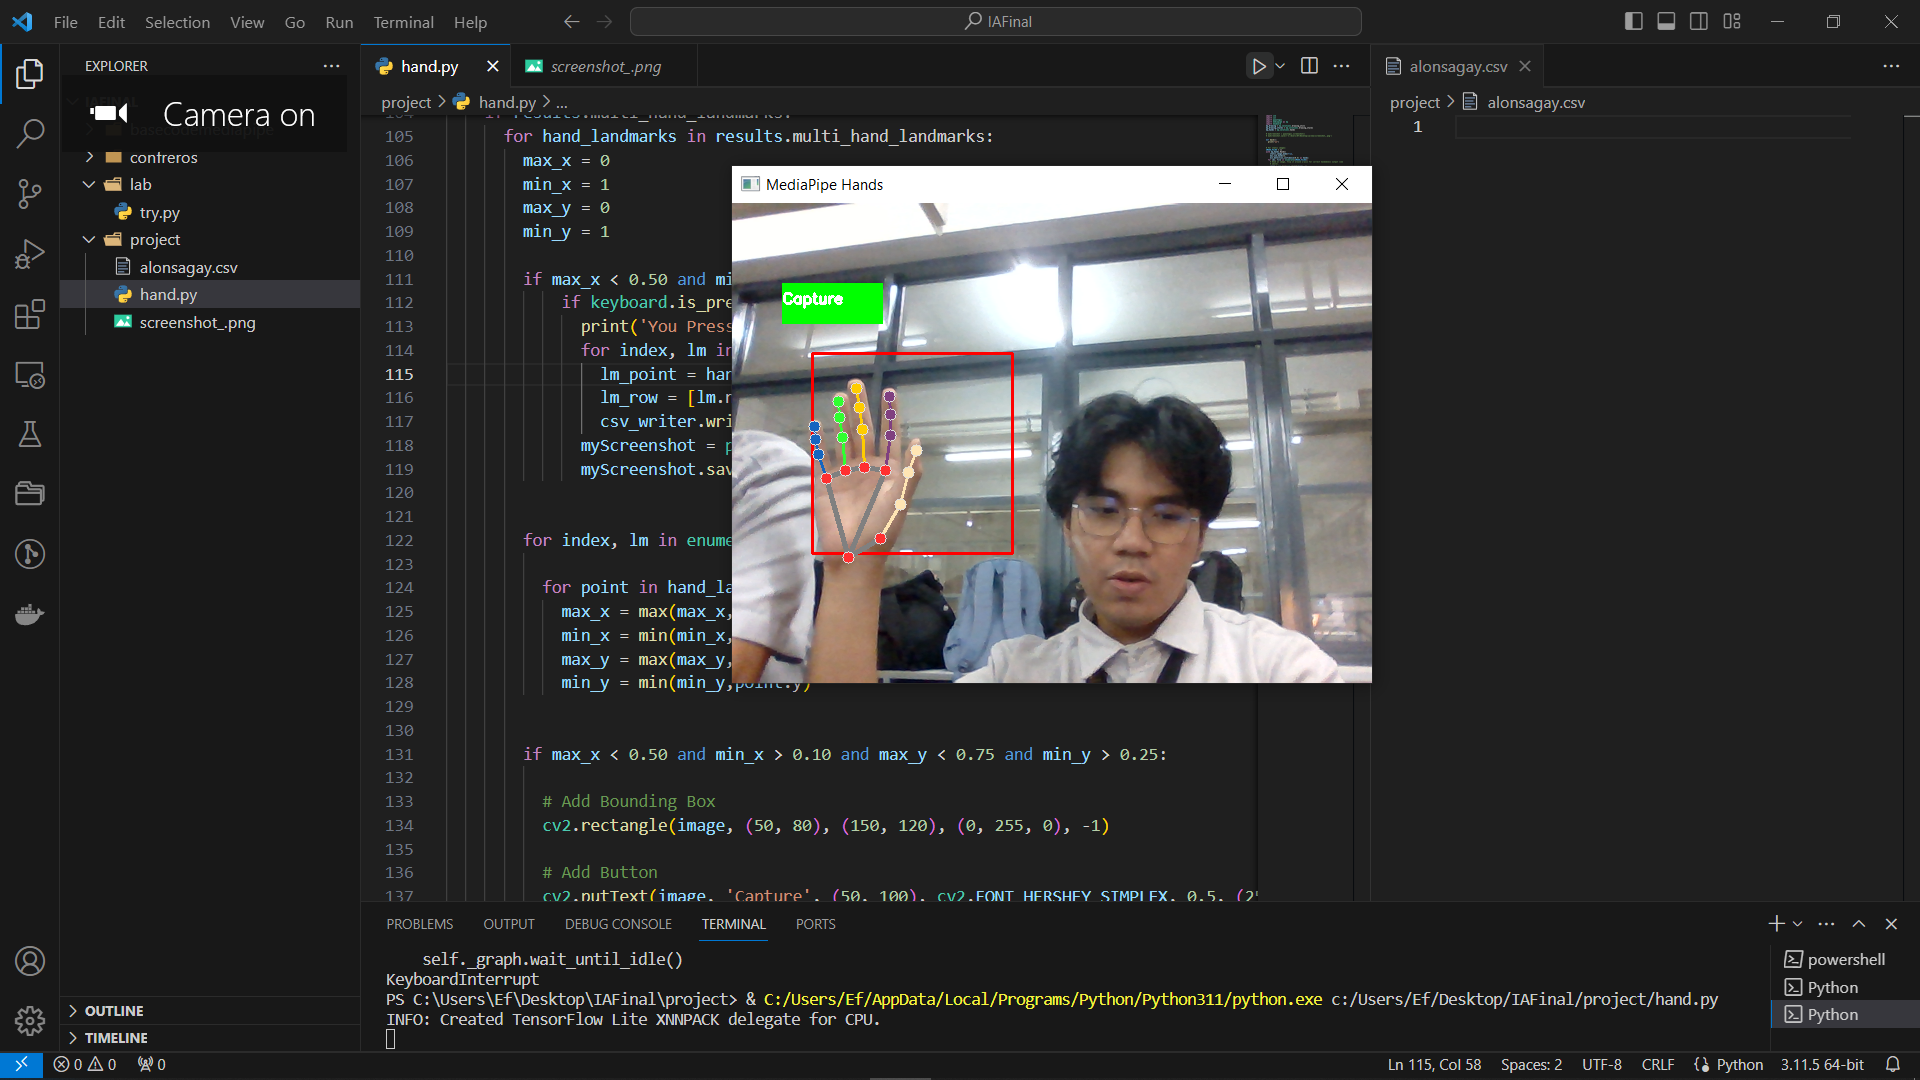
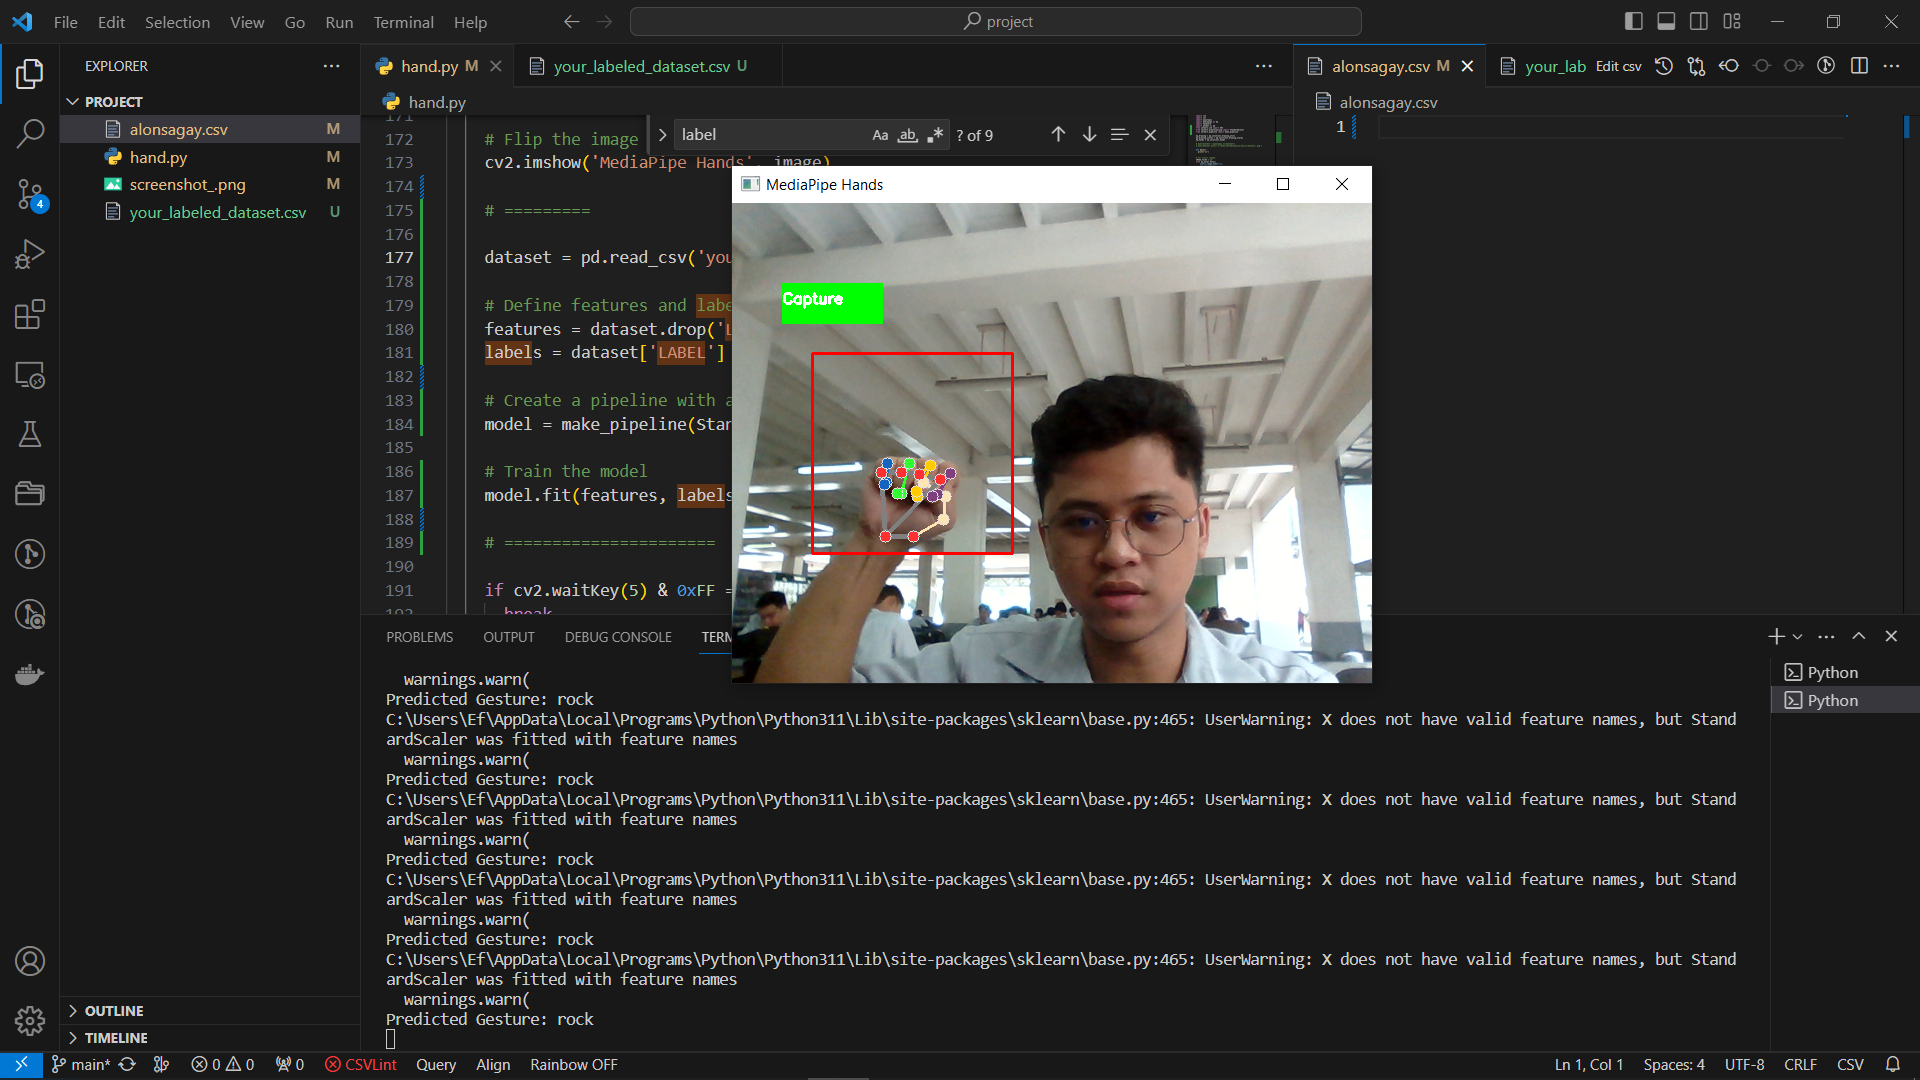
everything change

diff --git a/hand.py b/hand.py
@@ -3,6 +3,11 @@ import csv
 import pyautogui
 import mediapipe as mp
 import keyboard
+import pandas as pd
+from sklearn.svm import SVC
+from sklearn.preprocessing import StandardScaler
+from sklearn.pipeline import make_pipeline
+
 mp_drawing = mp.solutions.drawing_utils
 mp_drawing_styles = mp.solutions.drawing_styles
 mp_hands = mp.solutions.hands
@@ -75,7 +80,7 @@ with mp_hands.Hands(
     min_tracking_confidence=0.5) as hands, open('alonsagay.csv', 'w', newline='') as csv_file:
   
   csv_writer = csv.writer(csv_file)
-  csv_header = ['landmark','x', 'y', 'z']
+  csv_header = ['WRIST_X','WRIST_Y','WRIST_Z','THUMB_CMC_X','THUMB_CMC_Y','THUMB_CMC_Z', 'THUMB_MCP_X','THUMB_MCP_Y','THUMB_MCP_Z', 'THUMB_IP_X','THUMB_IP_Y','THUMB_IP_Z', 'THUMB_TIP_Z','THUMB_TIP_Y','THUMB_TIP_Z', 'INDEX_FINGER_MCP_X','INDEX_FINGER_MCP_Y','INDEX_FINGER_MCP_Z', 'INDEX_FINGER_PIP_X','INDEX_FINGER_PIP_Y','INDEX_FINGER_PIP_Z', 'INDEX_FINGER_DIP_X','INDEX_FINGER_DIP_Y','INDEX_FINGER_DIP_Z','INDEX_FINGER_TIP_X','INDEX_FINGER_TIP_Y','INDEX_FINGER_TIP_Z','MIDDLE_FINGER_MCP_X','MIDDLE_FINGER_MCP_Y','MIDDLE_FINGER_MCP_Z','MIDDLE_FINGER_PIP_X','MIDDLE_FINGER_PIP_Y','MIDDLE_FINGER_PIP_Z','MIDDLE_FINGER_DIP_X','MIDDLE_FINGER_DIP_Y','MIDDLE_FINGER_DIP_Z','MIDDLE_FINGER_TIP_X','MIDDLE_FINGER_TIP_Y','MIDDLE_FINGER_TIP_Z','RING_FINGER_MCP_X','RING_FINGER_MCP_Y','RING_FINGER_MCP_Z','RING_FINGER_PIP_X','RING_FINGER_PIP_Y','RING_FINGER_PIP_Z','RING_FINGER_DIP_X','RING_FINGER_DIP_Y','RING_FINGER_DIP_Z','RING_FINGER_TIP_X','RING_FINGER_TIP_Y','RING_FINGER_TIP_Z','PINKY_MCP_X','PINKY_MCP_Y','PINKY_MCP_Z','PINKY_PIP_X','PINKY_PIP_Y','PINKY_PIP_Z','PINKY_DIP_X','PINKY_DIP_Y','PINKY_DIP_Z','PINKY_TIP_X','PINKY_TIP_Y','PINKY_TIP_Z']
   csv_writer.writerow(csv_header)
   while cap.isOpened():
     success, image = cap.read()
@@ -108,13 +113,32 @@ with mp_hands.Hands(
         max_y = 0
         min_y = 1
 
+        # ===============
+        # Extract features from hand landmarks
+        feature_vector = []
+        for landmark in hand_landmarks.landmark:
+            feature_vector.extend([landmark.x, landmark.y, landmark.z])
+
+        # Make a prediction using the trained models
+        predicted_label = model.predict([feature_vector])
+
+        # Print or use the predicted label as needed
+        print('Predicted Gesture:', predicted_label[0])
+        # ===========
+
         if max_x < 0.50 and min_x > 0.10 and max_y < 0.75 and min_y > 0.25:
             if keyboard.is_pressed('q'):  # if key 'q' is pressed 
-              print('You Pressed q Key!')
+              print('Coordinates Captured')
+              lm_compile=[]
               for index, lm in enumerate(mp_hands.HandLandmark):
                 lm_point = hand_landmarks.landmark[index]
-                lm_row = [lm.name,lm_point.x,lm_point.y,lm_point.z]
-                csv_writer.writerow(lm_row)
+                lm_row = [lm_point.x,lm_point.y,lm_point.z]
+                lm_compile.extend(lm_row)
+                # lm_compile =
+                # print(lm_point)
+                # csv_writer.writerow(lm_row)
+                # csv_writer.writerow(lm_compile)
+              csv_writer.writerow(lm_compile)
               myScreenshot = pyautogui.screenshot()
               myScreenshot.save(r'C:\Users\Ef\Desktop\IAFinal\project\screenshot_.png')
 
@@ -147,10 +171,22 @@ with mp_hands.Hands(
         
     # Flip the image horizontally for a selfie-view display.
     cv2.imshow('MediaPipe Hands', image)
-    
-    
 
+    # =========f
     
+    dataset = pd.read_csv('training_data.csv')
+
+    # Define features and labels
+    features = dataset.drop('Labels', axis=1)
+    labels = dataset['Labels']
+
+    # Create a pipeline with a scaler and SVM classifier
+    model = make_pipeline(StandardScaler(), SVC())
+
+    # Train the model
+    model.fit(features.values, labels.values)
+
+    # ======================
     
     if cv2.waitKey(5) & 0xFF == 27:
       break
